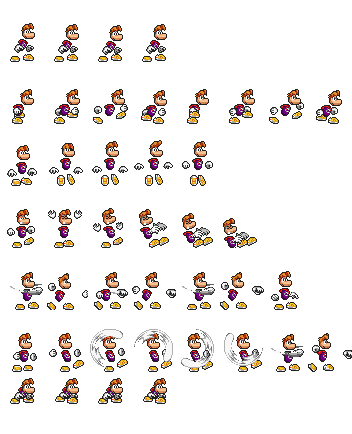
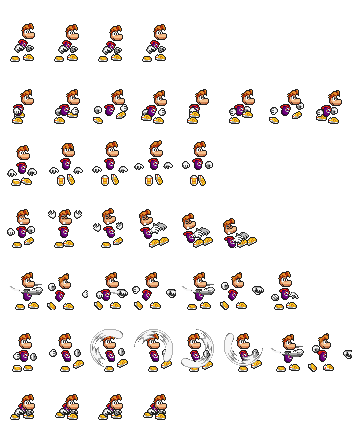
duck

diff --git a/src/main/java/com/mandarina/game/entities/Player.java b/src/main/java/com/mandarina/game/entities/Player.java
@@ -14,6 +14,7 @@ import com.mandarina.game.main.GameAudio;
 import com.mandarina.game.main.GameCts;
 import com.mandarina.game.main.GameDrawer;
 import com.mandarina.main.AppStage;
+import com.mandarina.utilz.Box;
 import com.mandarina.utilz.LoadSave;
 import com.mandarina.utilz.Point;
 
@@ -23,7 +24,7 @@ public class Player extends Entity {
 
 	private Image[][] animations;
 	private boolean moving = false, attacking = false;
-	private boolean left, right, jump;
+	private boolean left, right, jump, duck, tryStandUp;
 
 	private float xSpeed;
 	private float jumpSpeed;
@@ -34,6 +35,9 @@ public class Player extends Entity {
 
 	private boolean powerAttackActive;
 	private int powerAttackTick;
+
+	private float duckHeight;
+	private float diffHeight;
 
 	public Player(Point spawn) {
 		super(spawn, PlayerCts.HEALTH);
@@ -51,6 +55,8 @@ public class Player extends Entity {
 		initHitbox(PlayerCts.HITBOX_WIDTH, PlayerCts.HITBOX_HEIGHT);
 		initAttackBox(PlayerCts.ATTACKBOX_WIDTH, PlayerCts.ATTACKBOX_HEIGHT, PlayerCts.ATTACKBOX_OFFSET_X,
 				PlayerCts.ATTACKBOX_OFFSET_Y);
+		this.duckHeight = AppStage.Scale(PlayerCts.HITBOX_DUCK_HEIGHT);
+		this.diffHeight = AppStage.Scale(PlayerCts.HITBOX_DIFF_HEIGHT);
 	}
 
 	public void setPlaying(Playing playing) {
@@ -122,8 +128,7 @@ public class Player extends Entity {
 
 			// Fall if in air
 			if (inAir) {
-				if (CanMoveHere(hitbox, 0, ySpeed, PlayerCts.HITBOX_HORIZONTAL_CHECKS, PlayerCts.HITBOX_VERTICAL_CHECKS,
-						levelData)) {
+				if (CanMoveHere(hitbox, 0, ySpeed, PlayerCts.HITBOX_HORIZONTAL_CHECKS, getvCheck(), levelData)) {
 					hitbox.setMinY(hitbox.getMinY() + ySpeed);
 					ySpeed += AppStage.Scale(GameCts.GRAVITY_DEFAULT);
 				} else {
@@ -225,6 +230,15 @@ public class Player extends Entity {
 		else
 			state = PlayerState.IDLE;
 
+		if (duck) {
+			state = PlayerState.DUCK;
+			if (!moving) {
+				aniIndex = 1;
+				aniTick = 0;
+			}
+			return;
+		}
+
 		if (inAir) {
 			if (ySpeed < 0)
 				state = PlayerState.JUMP;
@@ -247,6 +261,7 @@ public class Player extends Entity {
 				return;
 			}
 		}
+
 		if (!state.equals(startAni)) {
 			resetAniTick();
 		}
@@ -271,6 +286,15 @@ public class Player extends Entity {
 		updateXSpeed();
 
 		LevelData levelData = playing.getLevelData();
+		if (tryStandUp) {
+			Box clone = getDuckHitbox();
+			if (CanMoveHere(clone, xSpeed, ySpeed, PlayerCts.HITBOX_HORIZONTAL_CHECKS, getvCheck(), levelData)) {
+				hitbox = clone;
+				this.tryStandUp = false;
+				this.duck = false;
+			}
+		}
+
 		if (!inAir)
 			if (!IsEntityOnFloor(hitbox, levelData))
 				inAir = true;
@@ -306,14 +330,13 @@ public class Player extends Entity {
 
 			xSpeed *= 3;
 		}
+		System.out.println(xSpeed);
 	}
 
 	private void updatePosOnAir() {
 		LevelData levelData = playing.getLevelData();
-		boolean canMoveY = CanMoveHere(hitbox, 0, ySpeed, PlayerCts.HITBOX_HORIZONTAL_CHECKS,
-				PlayerCts.HITBOX_VERTICAL_CHECKS, levelData);
-		boolean canMoveX = CanMoveHere(hitbox, xSpeed, 0, PlayerCts.HITBOX_HORIZONTAL_CHECKS,
-				PlayerCts.HITBOX_VERTICAL_CHECKS, levelData);
+		boolean canMoveY = CanMoveHere(hitbox, 0, ySpeed, PlayerCts.HITBOX_HORIZONTAL_CHECKS, getvCheck(), levelData);
+		boolean canMoveX = CanMoveHere(hitbox, xSpeed, 0, PlayerCts.HITBOX_HORIZONTAL_CHECKS, getvCheck(), levelData);
 
 		if (canMoveY && canMoveX) {
 			hitbox.setMinXY(hitbox.getMinX() + xSpeed, hitbox.getMinY() + ySpeed);
@@ -351,13 +374,18 @@ public class Player extends Entity {
 
 	private void updateXPos() {
 		LevelData levelData = playing.getLevelData();
-		if (CanMoveHere(hitbox, xSpeed, 0, PlayerCts.HITBOX_HORIZONTAL_CHECKS, PlayerCts.HITBOX_VERTICAL_CHECKS,
-				levelData)) {
+		if (CanMoveHere(hitbox, xSpeed, 0, PlayerCts.HITBOX_HORIZONTAL_CHECKS, getvCheck(), levelData)) {
 			hitbox.setMinX(hitbox.getMinX() + xSpeed);
 		} else {
-			hitbox.setMinX(GetEntityMinXNextToWall(hitbox, xSpeed));
+			hitbox.setMinX(GetEntityMinXNextToWall(hitbox, xSpeed, true));
+			System.out.println(
+					CanMoveHere(hitbox, xSpeed, 0, PlayerCts.HITBOX_HORIZONTAL_CHECKS, getvCheck(), levelData));
 			resetPowerAttack();
 		}
+	}
+
+	public int getvCheck() {
+		return duck ? 0 : PlayerCts.HITBOX_VERTICAL_CHECKS;
 	}
 
 	private void jump() {
@@ -439,6 +467,33 @@ public class Player extends Entity {
 		this.jump = jump;
 	}
 
+	public boolean isDuck() {
+		return duck;
+	}
+
+	public void setDuck(boolean duck) {
+		if (duck && duck != this.duck) {
+			hitbox.set(hitbox.getMinX(), hitbox.getMinY() + diffHeight, hitbox.getWidth(), duckHeight);
+			this.duck = duck;
+		}
+		if (!duck && duck != this.duck) {
+			LevelData levelData = playing.getLevelData();
+			Box clone = getDuckHitbox();
+			if (CanMoveHere(clone, xSpeed, ySpeed, PlayerCts.HITBOX_HORIZONTAL_CHECKS, getvCheck(), levelData)) {
+				hitbox = clone;
+				this.duck = duck;
+			} else {
+				this.tryStandUp = true;
+			}
+		}
+	}
+
+	private Box getDuckHitbox() {
+		Box clone = hitbox.clone();
+		clone.set(hitbox.getMinX(), hitbox.getMinY() - diffHeight, hitbox.getWidth(), hitboxHeight);
+		return clone;
+	}
+
 	public void resetAll() {
 		resetDirBooleans();
 		inAir = true;
@@ -502,6 +557,8 @@ public class Player extends Entity {
 		case ATTACK:
 			return 4; // TODO
 		case FALLING:
+			return 4;
+		case DUCK:
 			return 4;
 		default:
 			return 1;

diff --git a/src/main/java/com/mandarina/game/entities/PlayerCts.java b/src/main/java/com/mandarina/game/entities/PlayerCts.java
@@ -13,6 +13,8 @@ public class PlayerCts {
 
 	public static final int HITBOX_WIDTH = 24;
 	public static final int HITBOX_HEIGHT = 38;
+	public static final int HITBOX_DUCK_HEIGHT = 24;
+	public static final int HITBOX_DIFF_HEIGHT = HITBOX_HEIGHT - HITBOX_DUCK_HEIGHT;
 	public static final int HITBOX_HORIZONTAL_CHECKS = HITBOX_WIDTH / GameCts.TILES_DEFAULT_SIZE;
 	public static final int HITBOX_VERTICAL_CHECKS = HITBOX_HEIGHT / GameCts.TILES_DEFAULT_SIZE;
 

diff --git a/src/main/java/com/mandarina/game/gamestates/Playing.java b/src/main/java/com/mandarina/game/gamestates/Playing.java
@@ -196,7 +196,7 @@ public class Playing {
 				player.setJump(true);
 				break;
 			case C:
-//				player.setDuck(true);
+				player.setDuck(true);
 				break;
 			case ESCAPE:
 				paused = !paused;
@@ -217,7 +217,7 @@ public class Playing {
 				player.setRight(false);
 				break;
 			case C:
-//				player.setDuck(false);
+				player.setDuck(false);
 				break;
 			case SPACE:
 				player.setJump(false);
